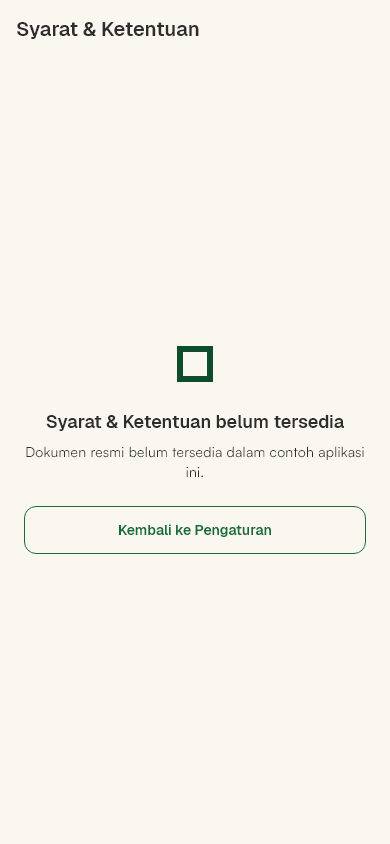
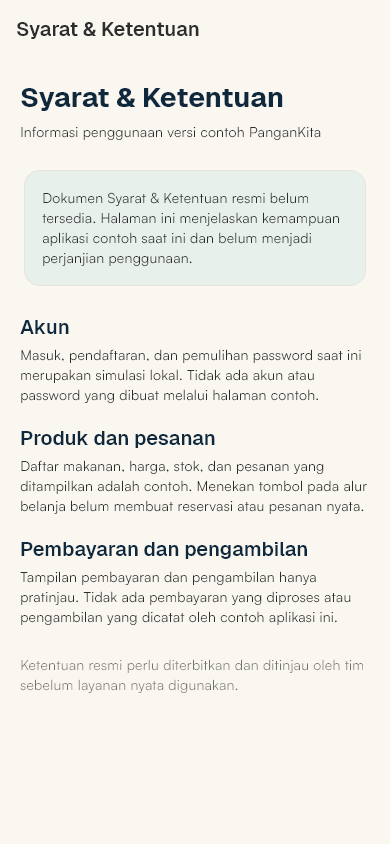
feat(settings): add terms preview page

diff --git a/app/lib/features/discovery/terms_page.dart b/app/lib/features/discovery/terms_page.dart
@@ -1,0 +1,93 @@
+import 'package:flutter/material.dart';
+import 'package:pangankita/app/pangan_kita_theme.dart';
+
+const _ink = Color(0xFF10283C);
+
+/// Information about the current demo while official terms await approval.
+class TermsPage extends StatelessWidget {
+  /// Creates the terms preview opened from Settings.
+  const new({super.key});
+
+  @override
+  Widget build(BuildContext context) => Scaffold(
+    backgroundColor: PanganKitaColors.surfaceWarm,
+    appBar: AppBar(title: const Text('Syarat & Ketentuan')),
+    body: SafeArea(
+      child: ListView(
+        padding: const EdgeInsets.fromLTRB(20, 24, 20, 32),
+        children: [
+          Text(
+            'Syarat & Ketentuan',
+            style: Theme.of(context).textTheme.headlineLarge
+                ?.copyWith(color: _ink),
+          ),
+          const SizedBox(height: 8),
+          const Text('Informasi penggunaan versi contoh PanganKita'),
+          const SizedBox(height: 24),
+          const Card(
+            color: Color(0xFFE7F0EB),
+            child: Padding(
+              padding: EdgeInsets.all(18),
+              child: Text(
+                'Dokumen Syarat & Ketentuan resmi belum tersedia. '
+                'Halaman ini menjelaskan kemampuan aplikasi contoh saat ini '
+                'dan belum menjadi perjanjian penggunaan.',
+              ),
+            ),
+          ),
+          const SizedBox(height: 24),
+          const _TermsSection(
+            title: 'Akun',
+            description:
+                'Masuk, pendaftaran, dan pemulihan password saat ini '
+                'merupakan simulasi lokal. Tidak ada akun atau password '
+                'yang dibuat melalui halaman contoh.',
+          ),
+          const _TermsSection(
+            title: 'Produk dan pesanan',
+            description:
+                'Daftar makanan, harga, stok, dan pesanan yang ditampilkan '
+                'adalah contoh. Menekan tombol pada alur belanja belum '
+                'membuat reservasi atau pesanan nyata.',
+          ),
+          const _TermsSection(
+            title: 'Pembayaran dan pengambilan',
+            description:
+                'Tampilan pembayaran dan pengambilan hanya pratinjau. '
+                'Tidak ada pembayaran yang diproses atau pengambilan '
+                'yang dicatat oleh contoh aplikasi ini.',
+          ),
+          const SizedBox(height: 8),
+          const Text(
+            'Ketentuan resmi perlu diterbitkan dan ditinjau oleh tim '
+            'sebelum layanan nyata digunakan.',
+            style: TextStyle(color: Colors.black54),
+          ),
+        ],
+      ),
+    ),
+  );
+}
+
+class _TermsSection extends StatelessWidget {
+  const new({required this.title, required this.description});
+
+  final String title;
+  final String description;
+
+  @override
+  Widget build(BuildContext context) => Padding(
+    padding: const EdgeInsets.only(bottom: 20),
+    child: Column(
+      crossAxisAlignment: CrossAxisAlignment.start,
+      children: [
+        Text(
+          title,
+          style: Theme.of(context).textTheme.titleLarge?.copyWith(color: _ink),
+        ),
+        const SizedBox(height: 6),
+        Text(description),
+      ],
+    ),
+  );
+}

diff --git a/app/test/settings_page_test.dart b/app/test/settings_page_test.dart
@@ -5,6 +5,7 @@ import 'package:pangankita/app/pangan_kita_theme.dart';
 import 'package:pangankita/features/discovery/profile_page.dart';
 import 'package:pangankita/features/discovery/settings_document_page.dart';
 import 'package:pangankita/features/discovery/settings_page.dart';
+import 'package:pangankita/features/discovery/terms_page.dart';
 import 'package:pangankita/features/onboarding/recovery_page.dart';
 
 import 'font_test_utils.dart';
@@ -59,7 +60,7 @@ void main() {
         home: const SettingsPage(),
         routes: {
           AppRoutes.recover: (context) => const RecoveryPage(),
-          AppRoutes.terms: (context) => const SettingsDocumentPage.terms(),
+          AppRoutes.terms: (context) => const TermsPage(),
           AppRoutes.privacy: (context) => const SettingsDocumentPage.privacy(),
         },
       ),
@@ -77,8 +78,9 @@ void main() {
     await tester.ensureVisible(find.text('Syarat & Ketentuan'));
     await tester.tap(find.text('Syarat & Ketentuan'));
     await tester.pumpAndSettle();
-    expect(find.text('Syarat & Ketentuan belum tersedia'), findsOneWidget);
-    await tester.tap(find.text('Kembali ke Pengaturan'));
+    expect(find.byType(TermsPage), findsOneWidget);
+    expect(find.textContaining('belum menjadi perjanjian'), findsOneWidget);
+    Navigator.of(tester.element(find.byType(TermsPage))).pop();
     await tester.pumpAndSettle();
     await tester.ensureVisible(find.text('Kebijakan Privasi'));
     await tester.tap(find.text('Kebijakan Privasi'));
@@ -109,4 +111,29 @@ void main() {
       });
     }
   }
+
+  testWidgets('terms preview remains readable at narrow width', (tester) async {
+    tester.view.devicePixelRatio = 1;
+    tester.view.physicalSize = const Size(320, 640);
+    addTearDown(tester.view.resetDevicePixelRatio);
+    addTearDown(tester.view.resetPhysicalSize);
+    await tester.pumpWidget(
+      MaterialApp(
+        theme: PanganKitaTheme.light,
+        builder: (context, child) => MediaQuery(
+          data: MediaQuery.of(context)
+              .copyWith(textScaler: const TextScaler.linear(1.6)),
+          child: child ?? const SizedBox.shrink(),
+        ),
+        home: const TermsPage(),
+      ),
+    );
+    await tester.pumpAndSettle();
+    expect(tester.takeException(), isNull);
+    await tester.scrollUntilVisible(
+      find.text('Pembayaran dan pengambilan'),
+      120,
+    );
+    expect(tester.takeException(), isNull);
+  });
 }

diff --git a/app/lib/features/discovery/settings_document_page.dart b/app/lib/features/discovery/settings_document_page.dart
@@ -1,21 +1,15 @@
 import 'package:flutter/material.dart';
 import 'package:pangankita/app/pangan_kita_theme.dart';
 
-/// Honest placeholder until approved account documents are available.
+/// Honest placeholder until an approved privacy document is available.
 class SettingsDocumentPage extends StatelessWidget {
-  /// Shows the terms status without inventing contractual text.
-  const new terms({super.key}) : title = 'Syarat & Ketentuan';
-
   /// Shows the privacy status without inventing a data policy.
-  const new privacy({super.key}) : title = 'Kebijakan Privasi';
-
-  /// Document title selected from Settings.
-  final String title;
+  const new privacy({super.key});
 
   @override
   Widget build(BuildContext context) => Scaffold(
     backgroundColor: PanganKitaColors.surfaceWarm,
-    appBar: AppBar(title: Text(title)),
+    appBar: AppBar(title: const Text('Kebijakan Privasi')),
     body: SafeArea(
       child: Center(
         child: Padding(
@@ -30,7 +24,7 @@ class SettingsDocumentPage extends StatelessWidget {
               ),
               const SizedBox(height: 16),
               Text(
-                '$title belum tersedia',
+                'Kebijakan Privasi belum tersedia',
                 textAlign: TextAlign.center,
                 style: Theme.of(context).textTheme.headlineSmall,
               ),

diff --git a/app/lib/app/pangan_kita_app.dart b/app/lib/app/pangan_kita_app.dart
@@ -29,6 +29,7 @@ import 'package:pangankita/features/discovery/settings_document_page.dart';
 import 'package:pangankita/features/discovery/settings_page.dart';
 import 'package:pangankita/features/discovery/store_detail_page.dart';
 import 'package:pangankita/features/discovery/support_page.dart';
+import 'package:pangankita/features/discovery/terms_page.dart';
 import 'package:pangankita/features/onboarding/auth_page.dart';
 import 'package:pangankita/features/onboarding/otp_page.dart';
 import 'package:pangankita/features/onboarding/password_success_page.dart';
@@ -85,7 +86,7 @@ class _PanganKitaAppState extends State<PanganKitaApp> {
       ),
       AppRoutes.editProfile: (context) => const EditProfilePage(),
       AppRoutes.settings: (context) => const SettingsPage(),
-      AppRoutes.terms: (context) => const SettingsDocumentPage.terms(),
+      AppRoutes.terms: (context) => const TermsPage(),
       AppRoutes.privacy: (context) => const SettingsDocumentPage.privacy(),
       AppRoutes.favorites: (context) => const FavoritesPage(),
       AppRoutes.support: (context) => const SupportPage(),
